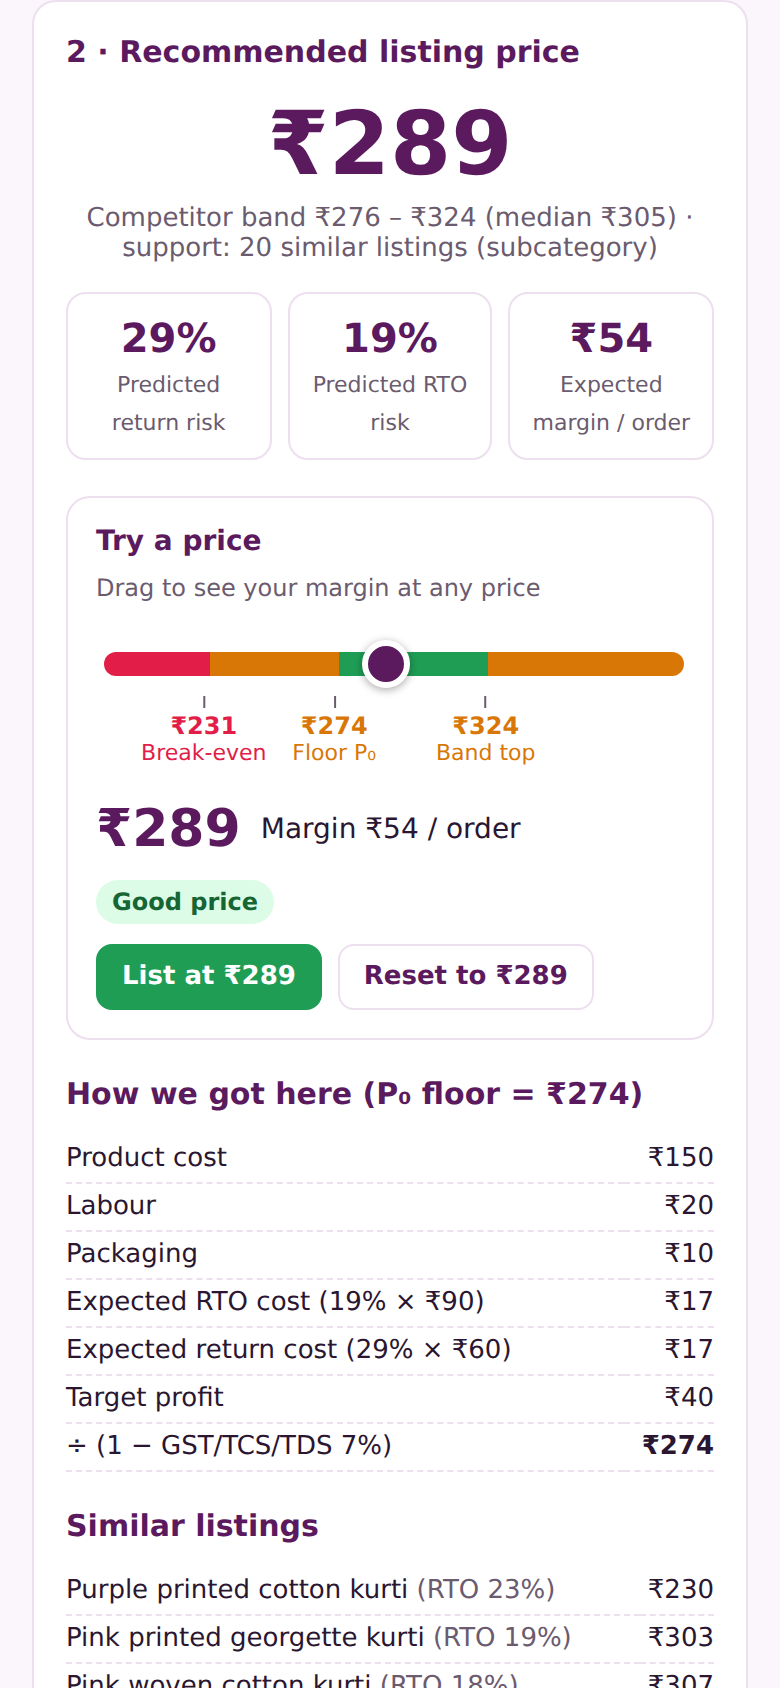
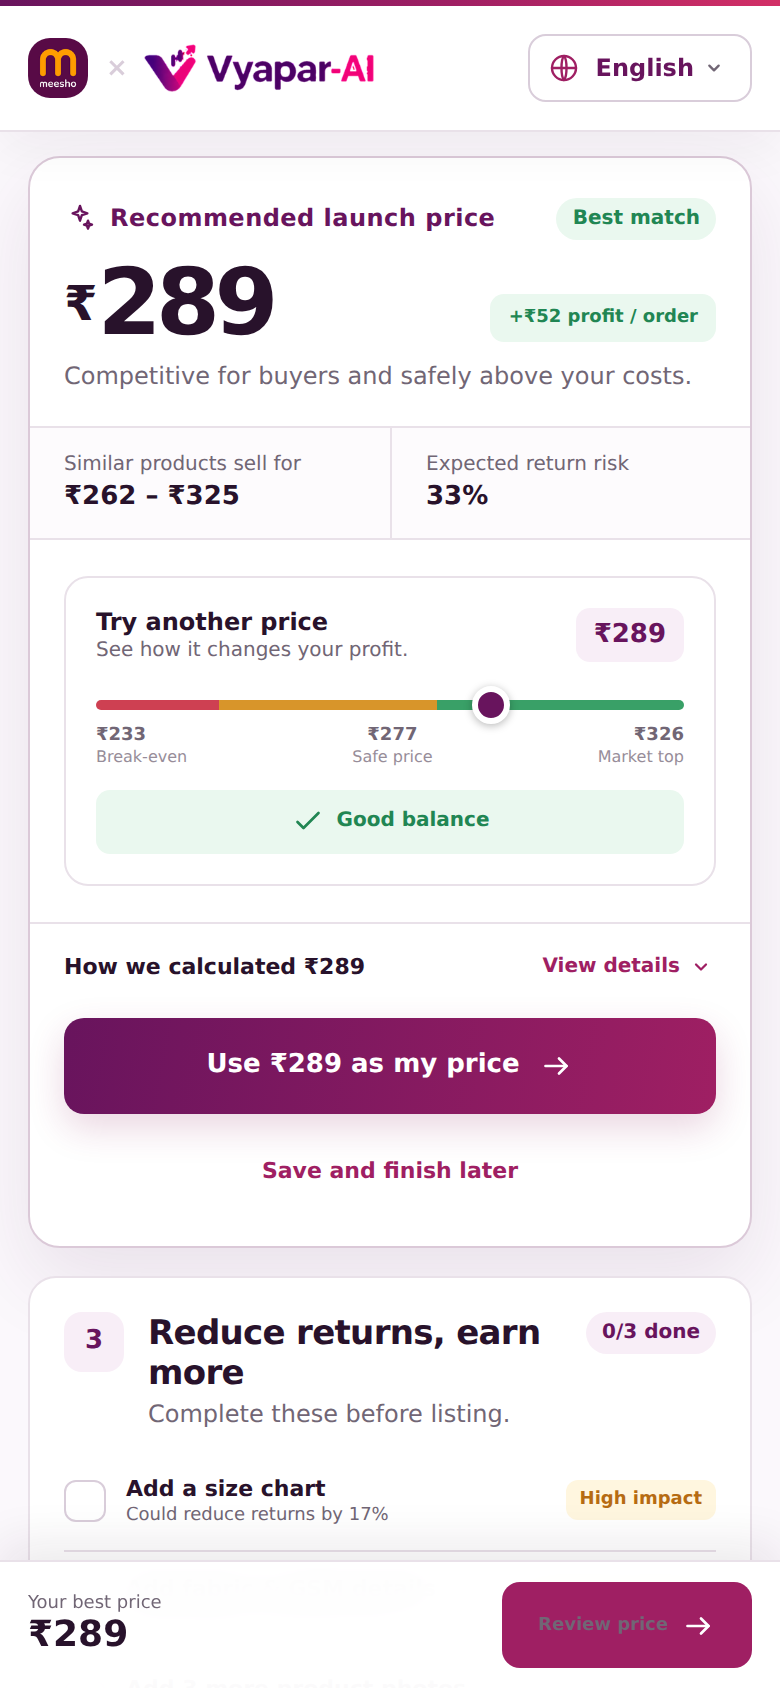
Update README screenshots to the current UI
Replace the screenshots of the old three-column UI with the current one:
full pricing screen, product card filled from a photo, recommended price
with slider, reduce-returns steps, WhatsApp preview, the photo-check
pop-up, mobile, and the architecture page. Remove the old chat-panel
screenshot and note that the shots use a stand-in vision model.

Changed region(s): [[0.0, 0.0, 1.0, 1.0], [0.9538, 0.0924, 0.9846, 0.7393]]

diff --git a/README.md b/README.md
@@ -7,21 +7,37 @@ and gives the seller simple Hinglish nudges.
 
 ## Screenshots
 
-**Day-0 pricing screen.** You enter costs and get a launch price, the competitor band, return and RTO risk, a price slider and WhatsApp-style nudges.
+**Pricing screen.** The seller adds a photo and their costs and gets a launch
+price, the price range similar products sell for, the expected return risk, a
+price slider marked with break-even, safe price and market top, steps to
+reduce returns, and a WhatsApp preview.
 
-![Day-0 pricing screen](docs/images/day0-pricing.png)
+![Pricing screen](docs/images/day0-pricing.png)
 
-**Working nudge buttons.** In this run the seller adds a size chart (the product is re-priced), checks their own ₹240 against the floor, and lists the product.
+| Photo fills in the details | Recommended price |
+|---|---|
+| ![Product card filled from the photo](docs/images/photo-upload.png) | ![Recommended launch price with slider](docs/images/recommendation.png) |
 
-![Nudge actions in the chat panel](docs/images/nudge-actions.png)
+| Reduce returns | WhatsApp preview |
+|---|---|
+| ![Steps to reduce returns](docs/images/improve-returns.png) | ![WhatsApp message preview](docs/images/whatsapp-preview.png) |
 
-**Price slider on mobile.** Drag it to see the margin at any price against the break-even, floor and band top.
+**Photo check pop-up.** Shown when a photo is blurry, dark, low resolution or
+not a product photo, with a one-tap way to replace it.
 
-<img src="docs/images/mobile.png" alt="Price slider on a phone" width="320">
+![Photo check pop-up](docs/images/photo-check-popup.png)
+
+**On a phone.**
+
+<img src="docs/images/mobile.png" alt="Recommended price on a phone" width="320">
 
 **Architecture page** (`docs/architecture.html`, served at `/architecture`).
 
 ![Architecture page](docs/images/architecture.png)
+
+> The screenshots use a stand-in vision model, so category, fabric and pattern
+> are filled in. Without `VISION_MODEL` set, only the colour and photo-quality
+> checks fill in automatically.
 
 ## Effort estimate
 
@@ -149,7 +165,8 @@ answer. That fits Sarvam's API (`VISION_API_BASE=https://api.sarvam.ai/v1`) or
 a self-hosted model. The model's answer is checked against the allowed values,
 and anything unexpected is dropped. If the call fails, the photo checks still
 answer. Photo problems (blurry, dark, small) slightly raise the predicted return
-rate, and each one becomes a Hinglish tip in the chat.
+rate, and the seller sees them in a photo-check pop-up with a one-tap way to
+replace the photo.
 
 ### Doc-AI digitise step (`vyapar_ai/vision.py`)
 
@@ -163,7 +180,7 @@ to the vision model alongside the images as a hint, so the model gets both the
 OCR text and the picture. If the Doc-AI step fails, the model still runs on the
 images alone, and if that fails the pixel checks still answer.
 
-![Photo upload filling the form](docs/images/photo-upload.png)
+![Product card filled from the photo](docs/images/photo-upload.png)
 
 OCR is not needed. Attributes come from what the photo shows. Reading printed
 measurements on a size chart would be an OCR or document-model step, which
